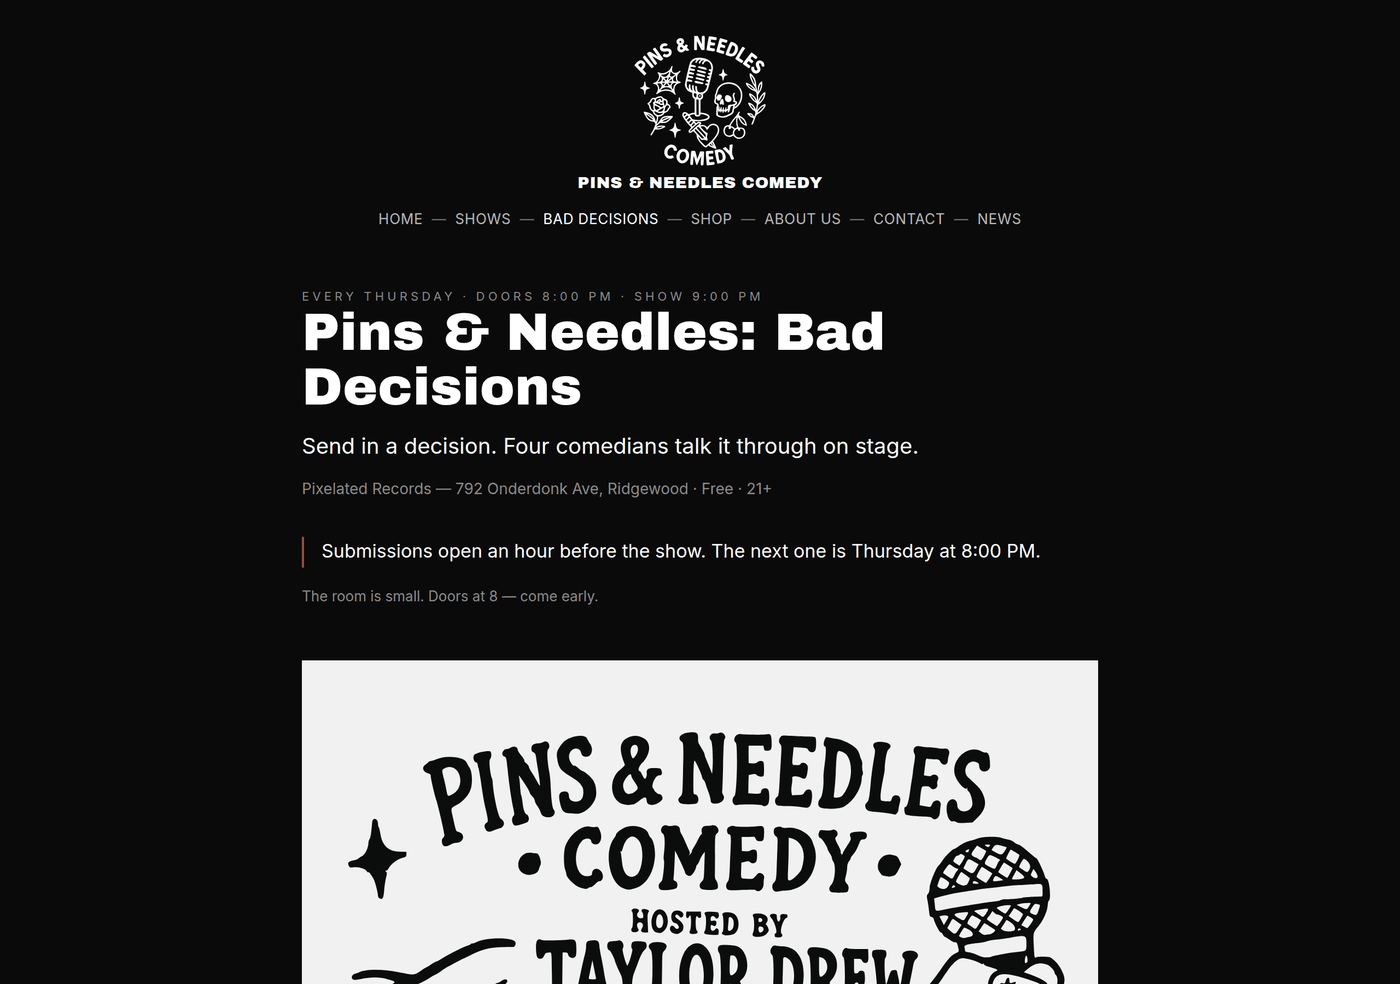
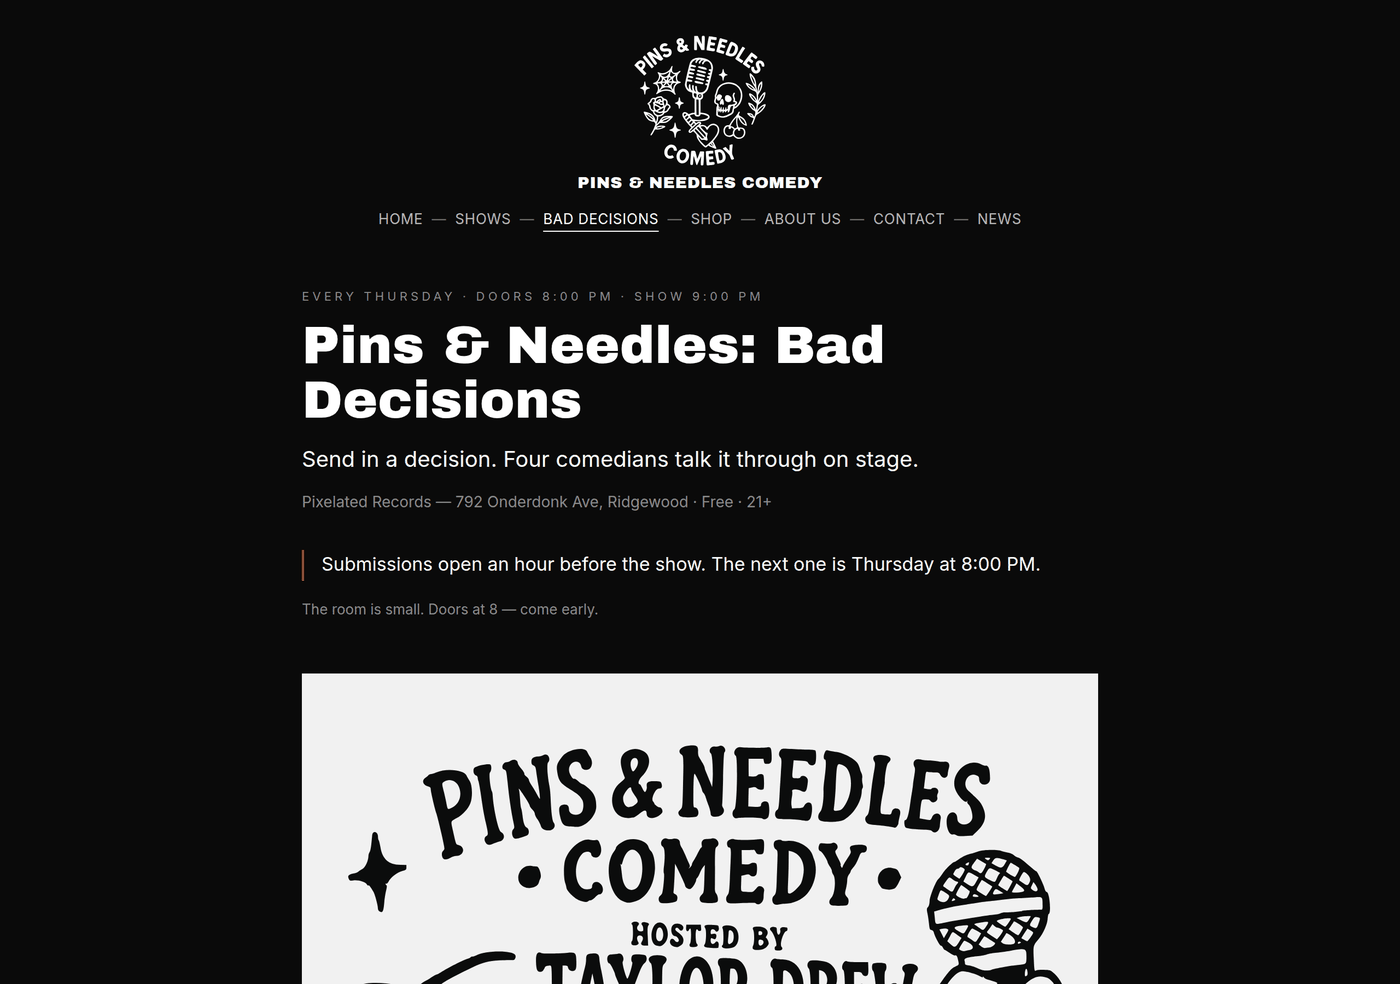
Quieten the weekly strip, and let colour utilities work on links
The strip was a solid slab of the accent colour across the full width of
an otherwise black page, carrying a twenty-word sentence that wrapped
mid-clause. It read as an ad someone else had bought — the loudest thing
on the page and the least considered. The component's own comment said
"short on purpose: the page does the explaining, this just points at it",
and then the copy did all the explaining: venue, price, format, running
order, before any reason to care.

Now the accent draws the eye without shouting — a rule down the left edge
and the night in accent type on black — and the copy is one idea:

    A decision you can't make, made for you by four comedians.

The rest is on the page the strip points at, which is where somebody who
is interested is already going.

Rebuilding it turned up why its button had no visible label. The class was
there and computed white on white. `@import "tailwindcss"` puts every
utility in a cascade layer, and unlayered CSS beats layered CSS whatever
its specificity, so the bare `a { color: inherit }` in globals.css was
quietly beating `text-black` — and every other colour utility on every
link in the app. Nineteen of them, including the ticket button on a show
page, which is white with dark text and has therefore been rendering its
label invisibly.

Those element defaults now sit in @layer base, which is what they are.
Screenshotted all eight public pages before and after: 404 identical, four
[…]

diff --git a/src/components/WeeklyStrip.tsx b/src/components/WeeklyStrip.tsx
@@ -5,23 +5,34 @@ import { weeklyScheduleLine } from "@/lib/decisions";
 /**
  * One line about the weekly, for the home page and the top of /shows.
  * Short on purpose: the page does the explaining, this just points at it.
+ *
+ * It used to be a solid slab of the accent colour across the full width. Next
+ * to a black page and one piece of white line art that reads as an ad someone
+ * else bought — the loudest thing on the page, and the least considered. The
+ * accent now draws the eye without shouting: a rule down the left edge, the
+ * night in accent type, and a filled button that is actually legible. Same
+ * pull, a tenth of the paint.
  */
 export default function WeeklyStrip({ weekly, text }: { weekly: WeeklyPage; text: string }) {
+  const night = weeklyScheduleLine(weekly).split(" · ")[0];
+
   return (
-    <section className="border-y border-white/10 bg-[var(--pnc-accent)] text-white">
-      <div className="mx-auto flex max-w-6xl flex-col gap-3 px-5 py-4 sm:flex-row sm:items-center sm:justify-between">
-        <p className="text-[14px] leading-snug">
-          <span className="mr-2 text-[10px] uppercase tracking-[0.28em] opacity-80">
-            {weeklyScheduleLine(weekly).split(" · ")[0]}
-          </span>
-          {text}
-        </p>
-        <Link
-          href="/bad-decisions"
-          className="shrink-0 border border-white px-4 py-2 text-center text-[12px] uppercase tracking-[0.22em] transition-colors hover:bg-white hover:text-[var(--pnc-accent)]"
-        >
-          {weekly.homeStripCta || "Send yours in"}
-        </Link>
+    <section className="border-y border-white/10 bg-black">
+      <div className="mx-auto max-w-6xl px-5 py-5">
+        <div className="flex flex-col gap-4 border-l-2 border-[var(--pnc-accent)] pl-4 sm:flex-row sm:items-center sm:justify-between sm:gap-6">
+          <p className="text-[15px] leading-snug text-white">
+            <span className="mr-2 text-[10px] uppercase tracking-[0.28em] text-[var(--pnc-accent)]">
+              {night}
+            </span>
+            {text}
+          </p>
+          <Link
+            href="/bad-decisions"
+            className="shrink-0 self-start rounded-sm bg-white px-4 py-2 text-center text-[12px] font-medium uppercase tracking-[0.22em] text-black transition-colors hover:bg-[var(--pnc-accent)] hover:text-white sm:self-auto"
+          >
+            {weekly.homeStripCta || "Send yours in"}
+          </Link>
+        </div>
       </div>
     </section>
   );

diff --git a/src/app/globals.css b/src/app/globals.css
@@ -18,33 +18,46 @@
   --font-body: var(--pnc-body);
 }
 
-* {
-  box-sizing: border-box;
-}
+/*
+ * Element defaults, inside @layer base.
+ *
+ * The layer is the whole point. `@import "tailwindcss"` puts every utility in
+ * a cascade layer, and unlayered CSS beats layered CSS no matter how specific
+ * the layered rule is. So `a { color: inherit }` sitting outside a layer was
+ * quietly beating `text-black` on every link in the app — nineteen of them —
+ * including a white button on a white background whose label was invisible.
+ * These are defaults; utilities are meant to override them, so they belong in
+ * the layer that says so.
+ */
+@layer base {
+  * {
+    box-sizing: border-box;
+  }
 
-html,
-body {
-  margin: 0;
-  padding: 0;
-  background: var(--pnc-bg);
-  color: var(--pnc-fg);
-  font-family: var(--pnc-body);
-  -webkit-font-smoothing: antialiased;
-  overflow-x: hidden;
-}
+  html,
+  body {
+    margin: 0;
+    padding: 0;
+    background: var(--pnc-bg);
+    color: var(--pnc-fg);
+    font-family: var(--pnc-body);
+    -webkit-font-smoothing: antialiased;
+    overflow-x: hidden;
+  }
 
-a {
-  color: inherit;
-  text-decoration: none;
-}
+  a {
+    color: inherit;
+    text-decoration: none;
+  }
 
-h1,
-h2,
-h3,
-h4 {
-  font-family: var(--pnc-heading);
-  font-weight: 400;
-  margin: 0;
+  h1,
+  h2,
+  h3,
+  h4 {
+    font-family: var(--pnc-heading);
+    font-weight: 400;
+    margin: 0;
+  }
 }
 
 /* Horizontal strips: scrollable, but without a visible scrollbar eating the edge. */

diff --git a/src/lib/defaults.ts b/src/lib/defaults.ts
@@ -441,8 +441,10 @@ Standard microphone and sound system, basic stage lighting, minimal setup and br
     thisWeekHeading: "This week",
     noLineupText: "This week's lineup drops on Instagram. Same room, same time.",
     showOnHome: true,
-    homeStripText:
-      "Bad Decisions is our free weekly at Pixelated Records in Ridgewood — send in a decision, four comics do sets, then they talk it through.",
+    // One idea, not the whole format. The venue, the price and how the night
+    // runs are all on the page this points at; repeating them here just makes
+    // a sentence nobody finishes reading.
+    homeStripText: "A decision you can't make, made for you by four comedians.",
     homeStripCta: "Send yours in",
     showOnShowsPage: true,
     seo: seo({

diff --git a/README.md b/README.md
@@ -24,7 +24,7 @@ live stand-up show in Ridgewood, Queens, and the admin its producers use to run
 it. Next.js 16, React 19, TypeScript, Tailwind 4 — **and no database.**
 
 <p align="center">
-  <img src="docs/images/home.png" alt="The Pins &amp; Needles Comedy home page: the line-art logo, the section nav, and a pink banner announcing the weekly show with a call to send a decision in." width="860">
+  <img src="docs/images/home.png" alt="The Pins &amp; Needles Comedy home page: the line-art logo, the section nav, and a strip announcing the weekly show — an accent rule, the night in red, one line of copy, and a button reading Send yours in." width="860">
 </p>
 
 It is worth a look because the constraints are real rather than illustrative:
